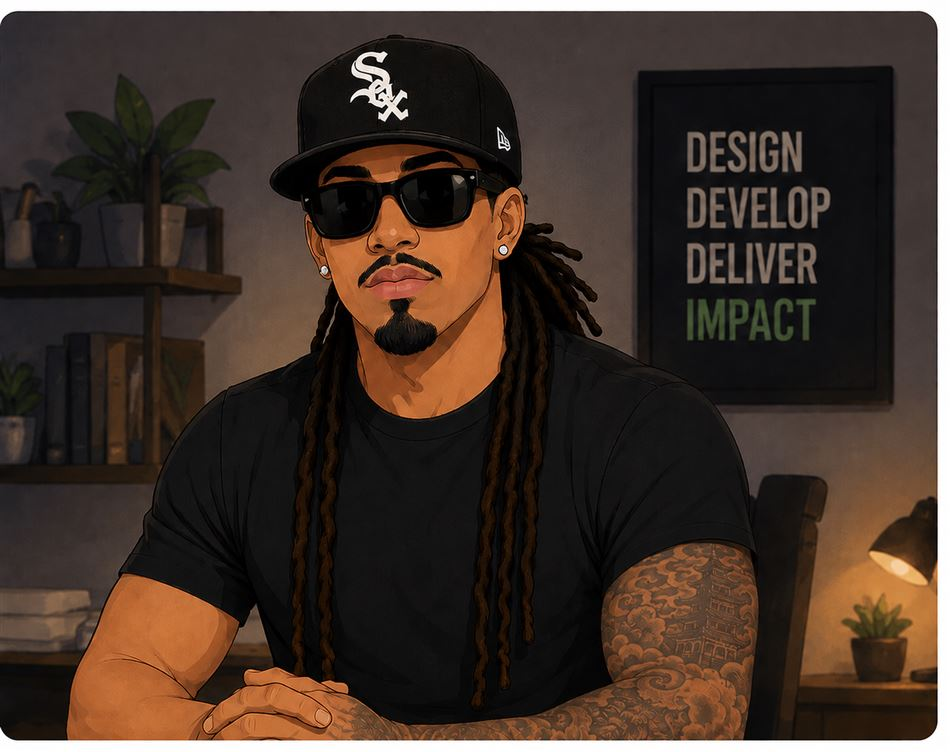
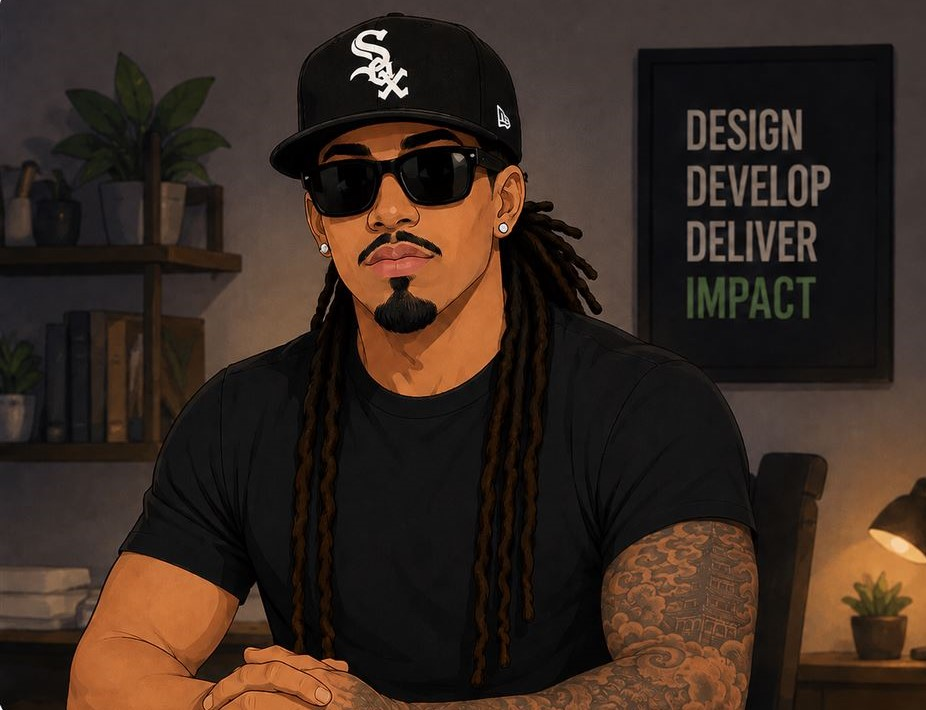
Use owner-cropped about photo (926x710), frame matched, cache-bust v2, both pages

diff --git a/index.html b/index.html
@@ -256,7 +256,7 @@
     position: relative;
     z-index: 1;
     width: 100%;
-    aspect-ratio: 7 / 5;
+    aspect-ratio: 926 / 710;
     object-fit: cover;
     object-position: center;
     border-radius: 4px;
@@ -733,7 +733,7 @@
     <div class="about-grid">
       <div class="about-photo-wrap">
         <img
-          src="Phorethought.jpg"
+          src="Phorethought.jpg?v=2"
           alt="Nicky B"
           class="about-photo"
           onerror="this.style.background='#e0e0e0';this.removeAttribute('src')"

diff --git a/inverted.html b/inverted.html
@@ -256,7 +256,7 @@
     position: relative;
     z-index: 1;
     width: 100%;
-    aspect-ratio: 7 / 5;
+    aspect-ratio: 926 / 710;
     object-fit: cover;
     object-position: center;
     border-radius: 4px;
@@ -733,7 +733,7 @@
     <div class="about-grid">
       <div class="about-photo-wrap">
         <img
-          src="Phorethought.jpg"
+          src="Phorethought.jpg?v=2"
           alt="Nicky B"
           class="about-photo"
           onerror="this.style.background='#e0e0e0';this.removeAttribute('src')"